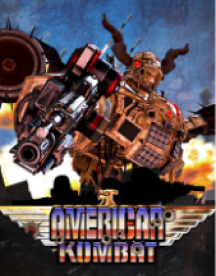
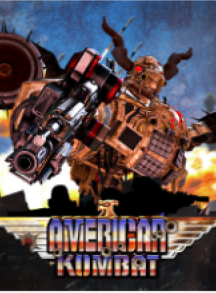
e-sport, arcade page

diff --git a/src/components/category/content/e-sport.html b/src/components/category/content/e-sport.html
@@ -1,38 +1,41 @@
 <div class="category-page__content__container">
 
-  <div class="category-page__content__container__games_lobby home-section container-fluid">
-    <span data-i18n="Sport_E_sport" class="label" data-aos="fade-up" data-aos-delay="0"></span>
-    <div data-i18n="Games_Lobby" class="title" data-aos="fade-up" data-aos-delay="50"></div>
+  <div class="category-page__content__container__games_lobby home-section">
+    <div class="d-flex justify-content-start align-items-center gap-2 mb-3">
+      <span data-i18n="Sport_E_sport" class="label" data-aos="fade-up" data-aos-delay="0"></span>
+      <div data-i18n="Games_Lobby" class="title mb-0" data-aos="fade-up" data-aos-delay="50"></div>
+    </div>
   
-    <div class="category-page__content__container__games_lobby__content row" data-aos="fade-up" data-aos-delay="100">
-      <div class="category-page__content__container__games_lobby__content__item col-4">
+    <div class="category-page__content__container__games_lobby__content row ps-0 pe-0 mx-0" data-aos="fade-up" data-aos-delay="100">
+      <div class="category-page__content__container__games_lobby__content__item col p-0">
         <a class="category-page__content__container__games_lobby__content__item__img" href="#">
           <img class="category-page__content__container__games_lobby__content__item__img__icon" src="assets/images/games-lobby/sport/1.png" alt="" />
           <img class="category-page__content__container__games_lobby__content__item__img__logo" src="assets/images/games-lobby/sport/11.png" alt="" />
         </a>
-        <div class="category-page__content__container__games_lobby__content__item__title" data-i18n="Sport"></div>
+        <!-- <div class="category-page__content__container__games_lobby__content__item__title" data-i18n="Sport"></div> -->
       </div>
-      <div class="category-page__content__container__games_lobby__content__item col-4">
+      <div class="category-page__content__container__games_lobby__content__item col p-0">
         <a class="category-page__content__container__games_lobby__content__item__img" href="#">
           <img class="category-page__content__container__games_lobby__content__item__img__icon" src="assets/images/games-lobby/sport/2.png" alt="" />
           <img class="category-page__content__container__games_lobby__content__item__img__logo" src="assets/images/games-lobby/sport/21.png" alt="" />
         </a>
-        <div class="category-page__content__container__games_lobby__content__item__title" data-i18n="E-sport"></div>
+        <!-- <div class="category-page__content__container__games_lobby__content__item__title" data-i18n="E-sport"></div> -->
       </div>
-      <div class="category-page__content__container__games_lobby__content__item col-4">
+      <div class="category-page__content__container__games_lobby__content__item col p-0">
         <a class="category-page__content__container__games_lobby__content__item__img" href="#">
           <img class="category-page__content__container__games_lobby__content__item__img__icon" src="assets/images/games-lobby/sport/3.png" alt="" />
           <img class="category-page__content__container__games_lobby__content__item__img__logo mh-14px" src="assets/images/games-lobby/sport/31.png" alt="" />
         </a>
-        <div class="category-page__content__container__games_lobby__content__item__title" data-i18n="Sport"></div>
+        <!-- <div class="category-page__content__container__games_lobby__content__item__title" data-i18n="Sport"></div> -->
       </div>
-      <div class="category-page__content__container__games_lobby__content__item col-4">
+      <div class="category-page__content__container__games_lobby__content__item col p-0">
         <a class="category-page__content__container__games_lobby__content__item__img" href="#">
           <img class="category-page__content__container__games_lobby__content__item__img__icon" src="assets/images/games-lobby/sport/4.png" alt="" />
           <img class="category-page__content__container__games_lobby__content__item__img__logo mh-14px" src="assets/images/games-lobby/sport/41.png" alt="" />
         </a>
-        <div class="category-page__content__container__games_lobby__content__item__title" data-i18n="Sport"></div>
+        <!-- <div class="category-page__content__container__games_lobby__content__item__title" data-i18n="Sport"></div> -->
       </div>
+      <div class="col p-0"></div>
     </div>
   </div>
 

diff --git a/src/components/category/content/arcade.html b/src/components/category/content/arcade.html
@@ -1,28 +1,32 @@
 <div class="category-page__content__container">
 
-  <div class="category-page__content__container__games_lobby home-section container-fluid">
-    <span data-i18n="Arcade" class="label" data-aos="fade-up" data-aos-delay="0"></span>
-    <div data-i18n="Games_Lobby" class="title" data-aos="fade-up" data-aos-delay="50"></div>
+  <div class="category-page__content__container__games_lobby home-section">
+    <div class="d-flex justify-content-start align-items-center gap-2 mb-3">
+      <span data-i18n="Arcade" class="label" data-aos="fade-up" data-aos-delay="0"></span>
+      <div data-i18n="Games_Lobby" class="title mb-0" data-aos="fade-up" data-aos-delay="50"></div>
+    </div>
   
-    <div class="category-page__content__container__games_lobby__content row" data-aos="fade-up" data-aos-delay="100">
-      <div class="category-page__content__container__games_lobby__content__item col-4">
+    <div class="category-page__content__container__games_lobby__content row ps-0 pe-0 mx-0 pt-2" data-aos="fade-up" data-aos-delay="100">
+      <div class="category-page__content__container__games_lobby__content__item col p-0">
         <a class="category-page__content__container__games_lobby__content__item__content" href="#">
-          <img class="category-page__content__container__games_lobby__content__item__content__icon" src="assets/images/games-lobby/arcade/1.png" alt="" />
-          <div class="category-page__content__container__games_lobby__content__item__content__title" data-i18n="Fishing_God"></div>
+          <img class="category-page__content__container__games_lobby__content__item__content__icon full-icon" src="assets/images/games-lobby/arcade/1.png" alt="" />
+          <div class="category-page__content__container__games_lobby__content__item__content__title text" data-i18n="category_page.Fishing_God"></div>
         </a>
       </div>
-      <div class="category-page__content__container__games_lobby__content__item col-4">
+      <div class="category-page__content__container__games_lobby__content__item col p-0">
         <a class="category-page__content__container__games_lobby__content__item__content" href="#">
-          <img class="category-page__content__container__games_lobby__content__item__content__icon" src="assets/images/games-lobby/arcade/2.png" alt="" />
-          <div class="category-page__content__container__games_lobby__content__item__content__title" data-i18n="Tokyo_Kombat"></div>
+          <img class="category-page__content__container__games_lobby__content__item__content__icon full-icon" src="assets/images/games-lobby/arcade/2.png" alt="" />
+          <div class="category-page__content__container__games_lobby__content__item__content__title text" data-i18n="category_page.Tokyo_Kombat"></div>
         </a>
       </div>
-      <div class="category-page__content__container__games_lobby__content__item col-4">
+      <div class="category-page__content__container__games_lobby__content__item col p-0">
         <a class="category-page__content__container__games_lobby__content__item__content" href="#">
-          <img class="category-page__content__container__games_lobby__content__item__content__icon" src="assets/images/games-lobby/arcade/3.png" alt="" />
-          <div class="category-page__content__container__games_lobby__content__item__content__title" data-i18n="American_Kombat"></div>
+          <img class="category-page__content__container__games_lobby__content__item__content__icon full-icon" src="assets/images/games-lobby/arcade/3.png" alt="" />
+          <div class="category-page__content__container__games_lobby__content__item__content__title text" data-i18n="category_page.American_Kombat"></div>
         </a>
       </div>
+      <div class="col p-0"></div>
+      <div class="col p-0"></div>
     </div>
   </div>
 

diff --git a/assets/css/index.css b/assets/css/index.css
@@ -2511,6 +2511,10 @@ a {
       .category-page__content__container__games_lobby__content__item__content__icon {
         max-width: 95px;
         max-height: 95px; }
+        .category-page__content__container__games_lobby__content__item__content__icon.full-icon {
+          max-width: none;
+          max-height: none;
+          width: 100%; }
       .category-page__content__container__games_lobby__content__item__content__title {
         font-weight: 600;
         font-size: 14px;
@@ -2518,6 +2522,10 @@ a {
         text-align: center;
         color: #FFFFFF;
         margin-top: 5px; }
+        .category-page__content__container__games_lobby__content__item__content__title.text {
+          font-size: 12px;
+          line-height: 13px;
+          margin-top: 10px; }
     .category-page__content__container__games_lobby__content__item:nth-child(even) .category-page__content__container__games_lobby__content__item__img {
       background-image: url(../images/games-lobby-2.svg); }
 

diff --git a/assets/css/_page/index.css b/assets/css/_page/index.css
@@ -1799,6 +1799,10 @@
       .category-page__content__container__games_lobby__content__item__content__icon {
         max-width: 95px;
         max-height: 95px; }
+        .category-page__content__container__games_lobby__content__item__content__icon.full-icon {
+          max-width: none;
+          max-height: none;
+          width: 100%; }
       .category-page__content__container__games_lobby__content__item__content__title {
         font-weight: 600;
         font-size: 14px;
@@ -1806,6 +1810,10 @@
         text-align: center;
         color: #FFFFFF;
         margin-top: 5px; }
+        .category-page__content__container__games_lobby__content__item__content__title.text {
+          font-size: 12px;
+          line-height: 13px;
+          margin-top: 10px; }
     .category-page__content__container__games_lobby__content__item:nth-child(even) .category-page__content__container__games_lobby__content__item__img {
       background-image: url(../images/games-lobby-2.svg); }
 

diff --git a/assets/css/_page/category.css b/assets/css/_page/category.css
@@ -244,6 +244,10 @@
       .category-page__content__container__games_lobby__content__item__content__icon {
         max-width: 95px;
         max-height: 95px; }
+        .category-page__content__container__games_lobby__content__item__content__icon.full-icon {
+          max-width: none;
+          max-height: none;
+          width: 100%; }
       .category-page__content__container__games_lobby__content__item__content__title {
         font-weight: 600;
         font-size: 14px;
@@ -251,6 +255,10 @@
         text-align: center;
         color: #FFFFFF;
         margin-top: 5px; }
+        .category-page__content__container__games_lobby__content__item__content__title.text {
+          font-size: 12px;
+          line-height: 13px;
+          margin-top: 10px; }
     .category-page__content__container__games_lobby__content__item:nth-child(even) .category-page__content__container__games_lobby__content__item__img {
       background-image: url(../images/games-lobby-2.svg); }
 

diff --git a/src/pages/arcade-without-login.html b/src/pages/arcade-without-login.html
@@ -1,0 +1,31 @@
+<!DOCTYPE html>
+<html lang="">
+  @@include('../components/base/header.html', {title: 'Arcade'})
+  <body>
+    
+    <!-- Content -->
+    <section class="main category-page">
+      @@include('../components/base/navbar.html', {without_login: true})
+      <div class="category-page__content container">
+
+        @@include('../components/base/layout.html', {
+          childContent: '../category/arcade-content.html',
+          menuActive: 0,
+          without_login: true
+        })
+        
+        
+      </div>
+
+      <!-- MODAL -->
+      <!-- MODAL -->
+
+      
+      @@include('../components/base/navbar-footer.html')
+      
+      <!-- @@include('../components/base/navbar-bottom.html', {active: -1}) -->
+    </section>
+    
+    @@include('../components/base/footer.html')
+  </body>
+</html>

diff --git a/src/pages/sport-without-login.html b/src/pages/sport-without-login.html
@@ -1,0 +1,30 @@
+<!DOCTYPE html>
+<html lang="">
+  @@include('../components/base/header.html', {title: 'Sport/ E-sport'})
+  <body>
+    
+    <!-- Content -->
+    <section class="main category-page">
+      @@include('../components/base/navbar.html', {without_login: true})
+      <div class="category-page__content container">
+
+        @@include('../components/base/layout.html', {
+          childContent: '../category/sport-content.html',
+          menuActive: 0,
+          without_login: true
+        })
+        
+      </div>
+
+      <!-- MODAL -->
+      <!-- MODAL -->
+
+      
+      @@include('../components/base/navbar-footer.html')
+      
+      <!-- @@include('../components/base/navbar-bottom.html', {active: -1}) -->
+    </section>
+    
+    @@include('../components/base/footer.html')
+  </body>
+</html>

diff --git a/src/pages/sport.html b/src/pages/sport.html
@@ -1,0 +1,30 @@
+<!DOCTYPE html>
+<html lang="">
+  @@include('../components/base/header.html', {title: 'Sport/ E-sport'})
+  <body>
+    
+    <!-- Content -->
+    <section class="main category-page">
+      @@include('../components/base/navbar.html')
+      <div class="category-page__content container">
+
+        @@include('../components/base/layout.html', {
+          childContent: '../category/sport-content.html',
+          menuActive: 0,
+        })
+        
+        
+      </div>
+
+      <!-- MODAL -->
+      <!-- MODAL -->
+
+      
+      @@include('../components/base/navbar-footer.html')
+      
+      <!-- @@include('../components/base/navbar-bottom.html', {active: -1}) -->
+    </section>
+    
+    @@include('../components/base/footer.html')
+  </body>
+</html>

diff --git a/src/pages/arcade.html b/src/pages/arcade.html
@@ -1,0 +1,30 @@
+<!DOCTYPE html>
+<html lang="">
+  @@include('../components/base/header.html', {title: 'Arcade'})
+  <body>
+    
+    <!-- Content -->
+    <section class="main category-page">
+      @@include('../components/base/navbar.html')
+      <div class="category-page__content container">
+
+        @@include('../components/base/layout.html', {
+          childContent: '../category/arcade-content.html',
+          menuActive: 0,
+        })
+        
+        
+      </div>
+
+      <!-- MODAL -->
+      <!-- MODAL -->
+
+      
+      @@include('../components/base/navbar-footer.html')
+      
+      <!-- @@include('../components/base/navbar-bottom.html', {active: -1}) -->
+    </section>
+    
+    @@include('../components/base/footer.html')
+  </body>
+</html>

diff --git a/src/assets/scss/_page/category.scss b/src/assets/scss/_page/category.scss
@@ -339,6 +339,12 @@
               &__icon {
                 max-width: 95px;
                 max-height: 95px;
+
+                &.full-icon {
+                  max-width: none;
+                  max-height: none;
+                  width: 100%;
+                }
               }
 
               &__title {
@@ -348,6 +354,12 @@
                 text-align: center;
                 color: #FFFFFF;
                 margin-top: 5px;
+
+                &.text {
+                  font-size: 12px;
+                  line-height: 13px;
+                  margin-top: 10px;
+                }
               }
             }
 

diff --git a/src/components/category/arcade-content.html b/src/components/category/arcade-content.html
@@ -1,0 +1,3 @@
+@@include('./top-content.html', {active: 4})
+
+@@include('./content.html', {active: 4})

diff --git a/src/components/category/sport-content.html b/src/components/category/sport-content.html
@@ -1,0 +1,3 @@
+@@include('./top-content.html', {active: 3})
+
+@@include('./content.html', {active: 3})
